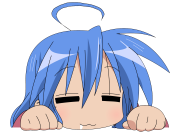
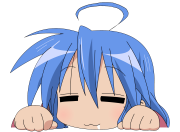
sleepy but real

diff --git a/_layouts/default.html b/_layouts/default.html
@@ -26,6 +26,6 @@
             </td>
         </tr>
     </table>
-<img scr="/assets/images/sleepy.png" id="sleepy">
+<img src="/assets/images/sleepy.png" id="sleepy">
 </body>
 </html>
